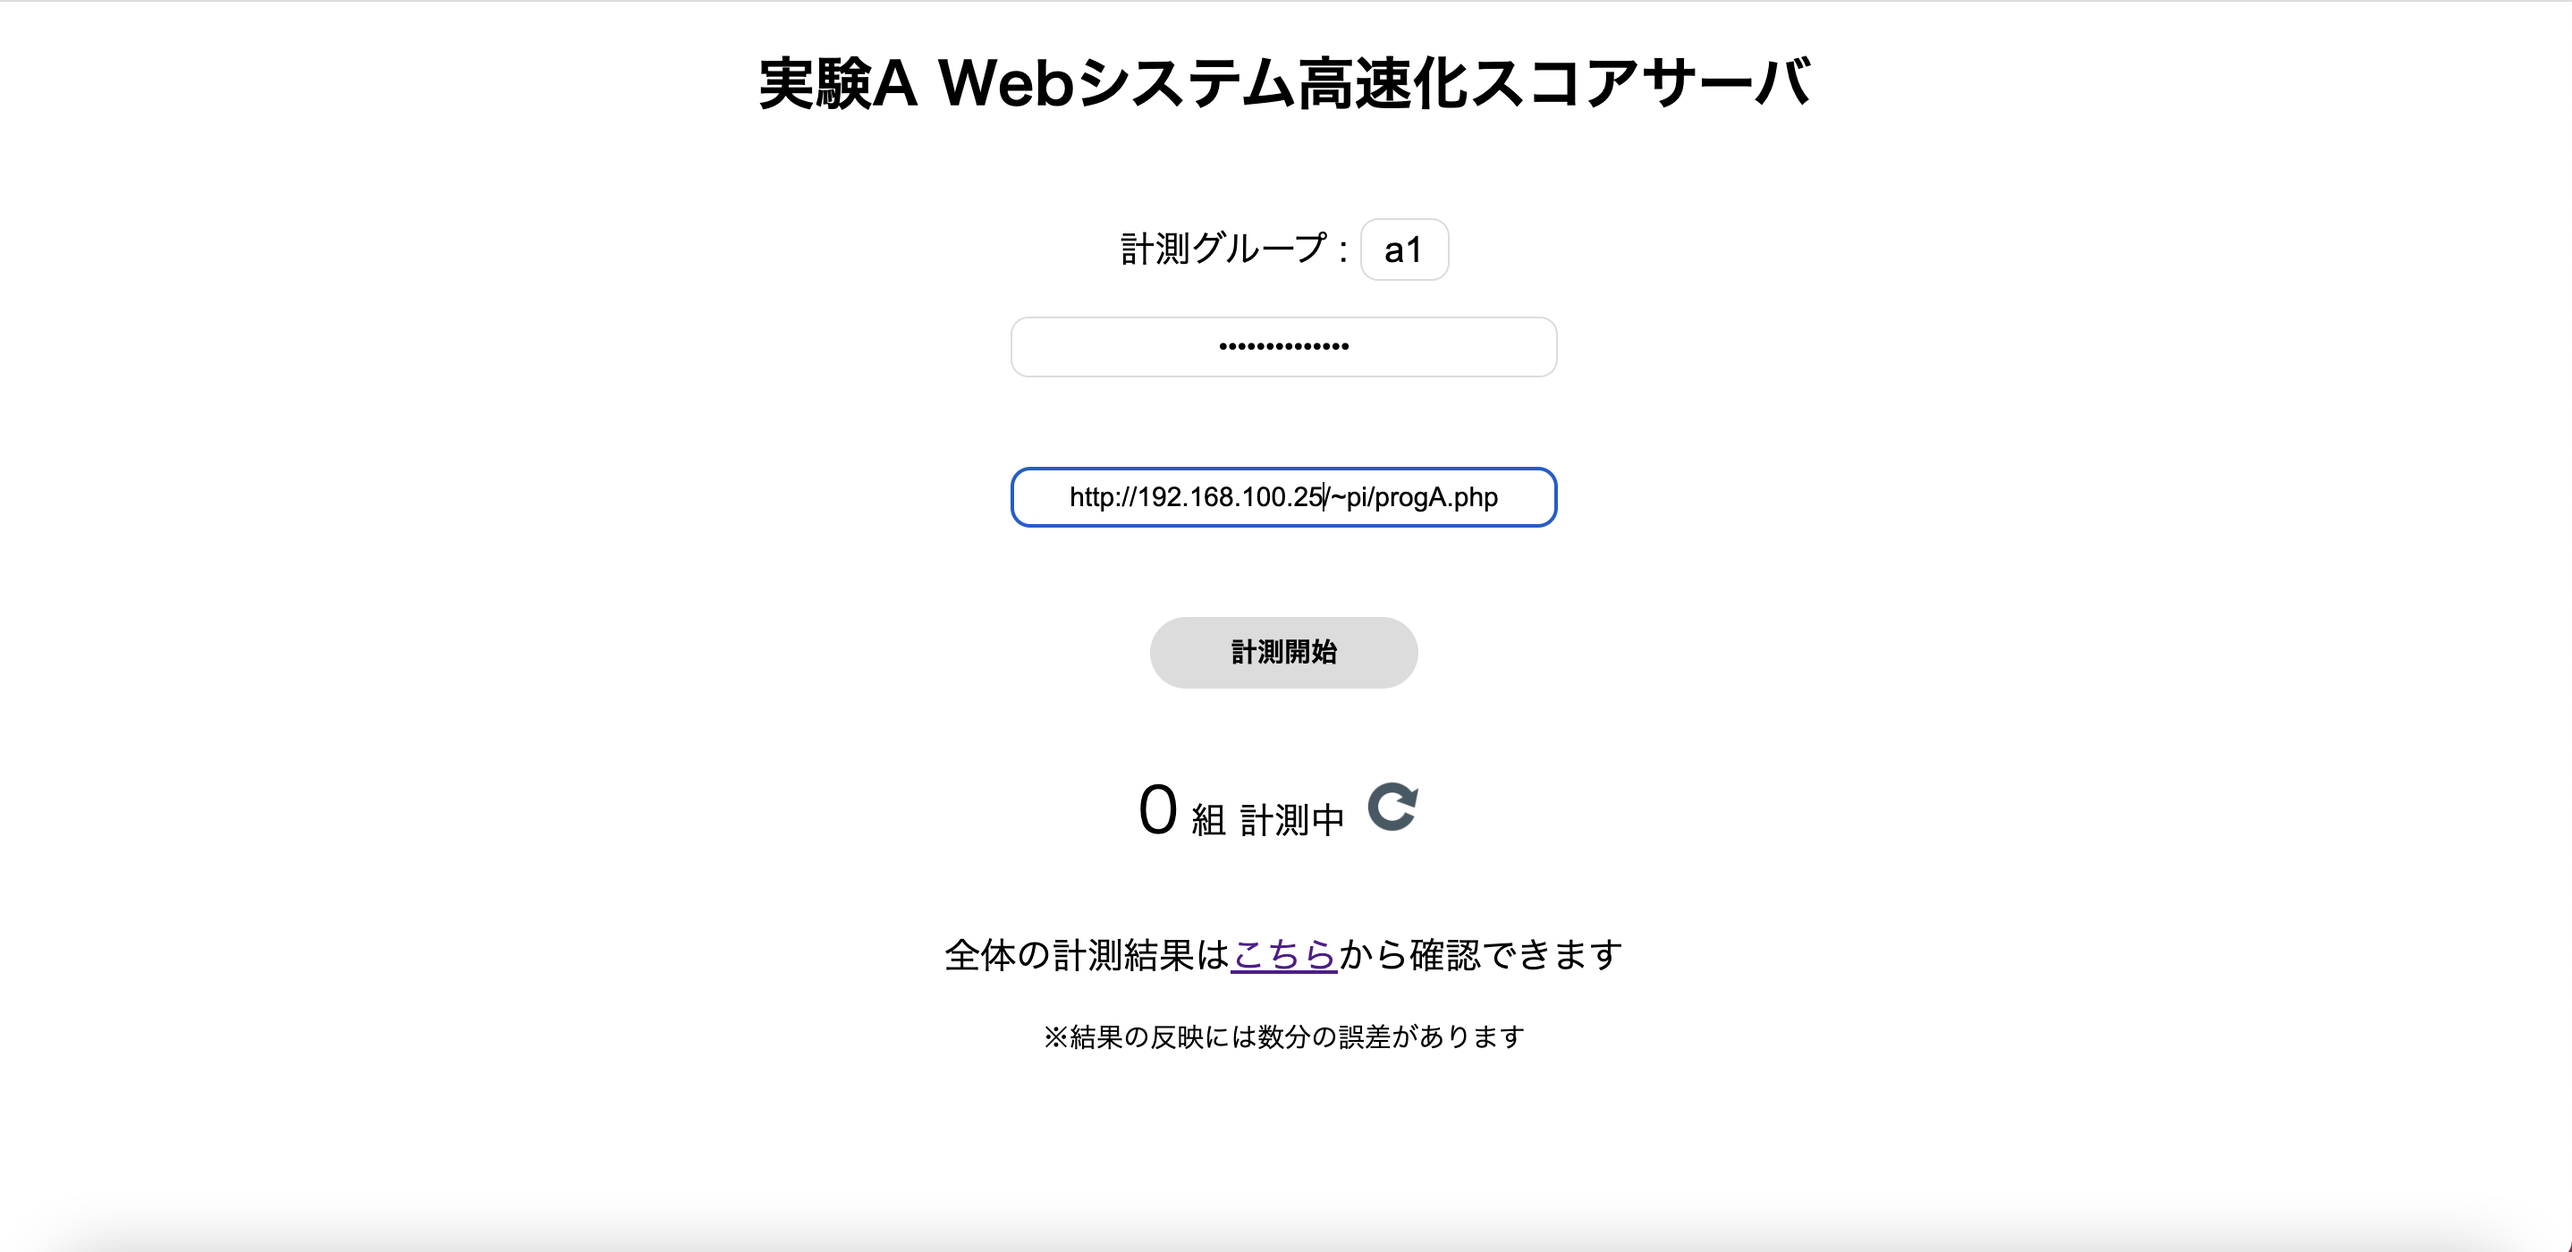
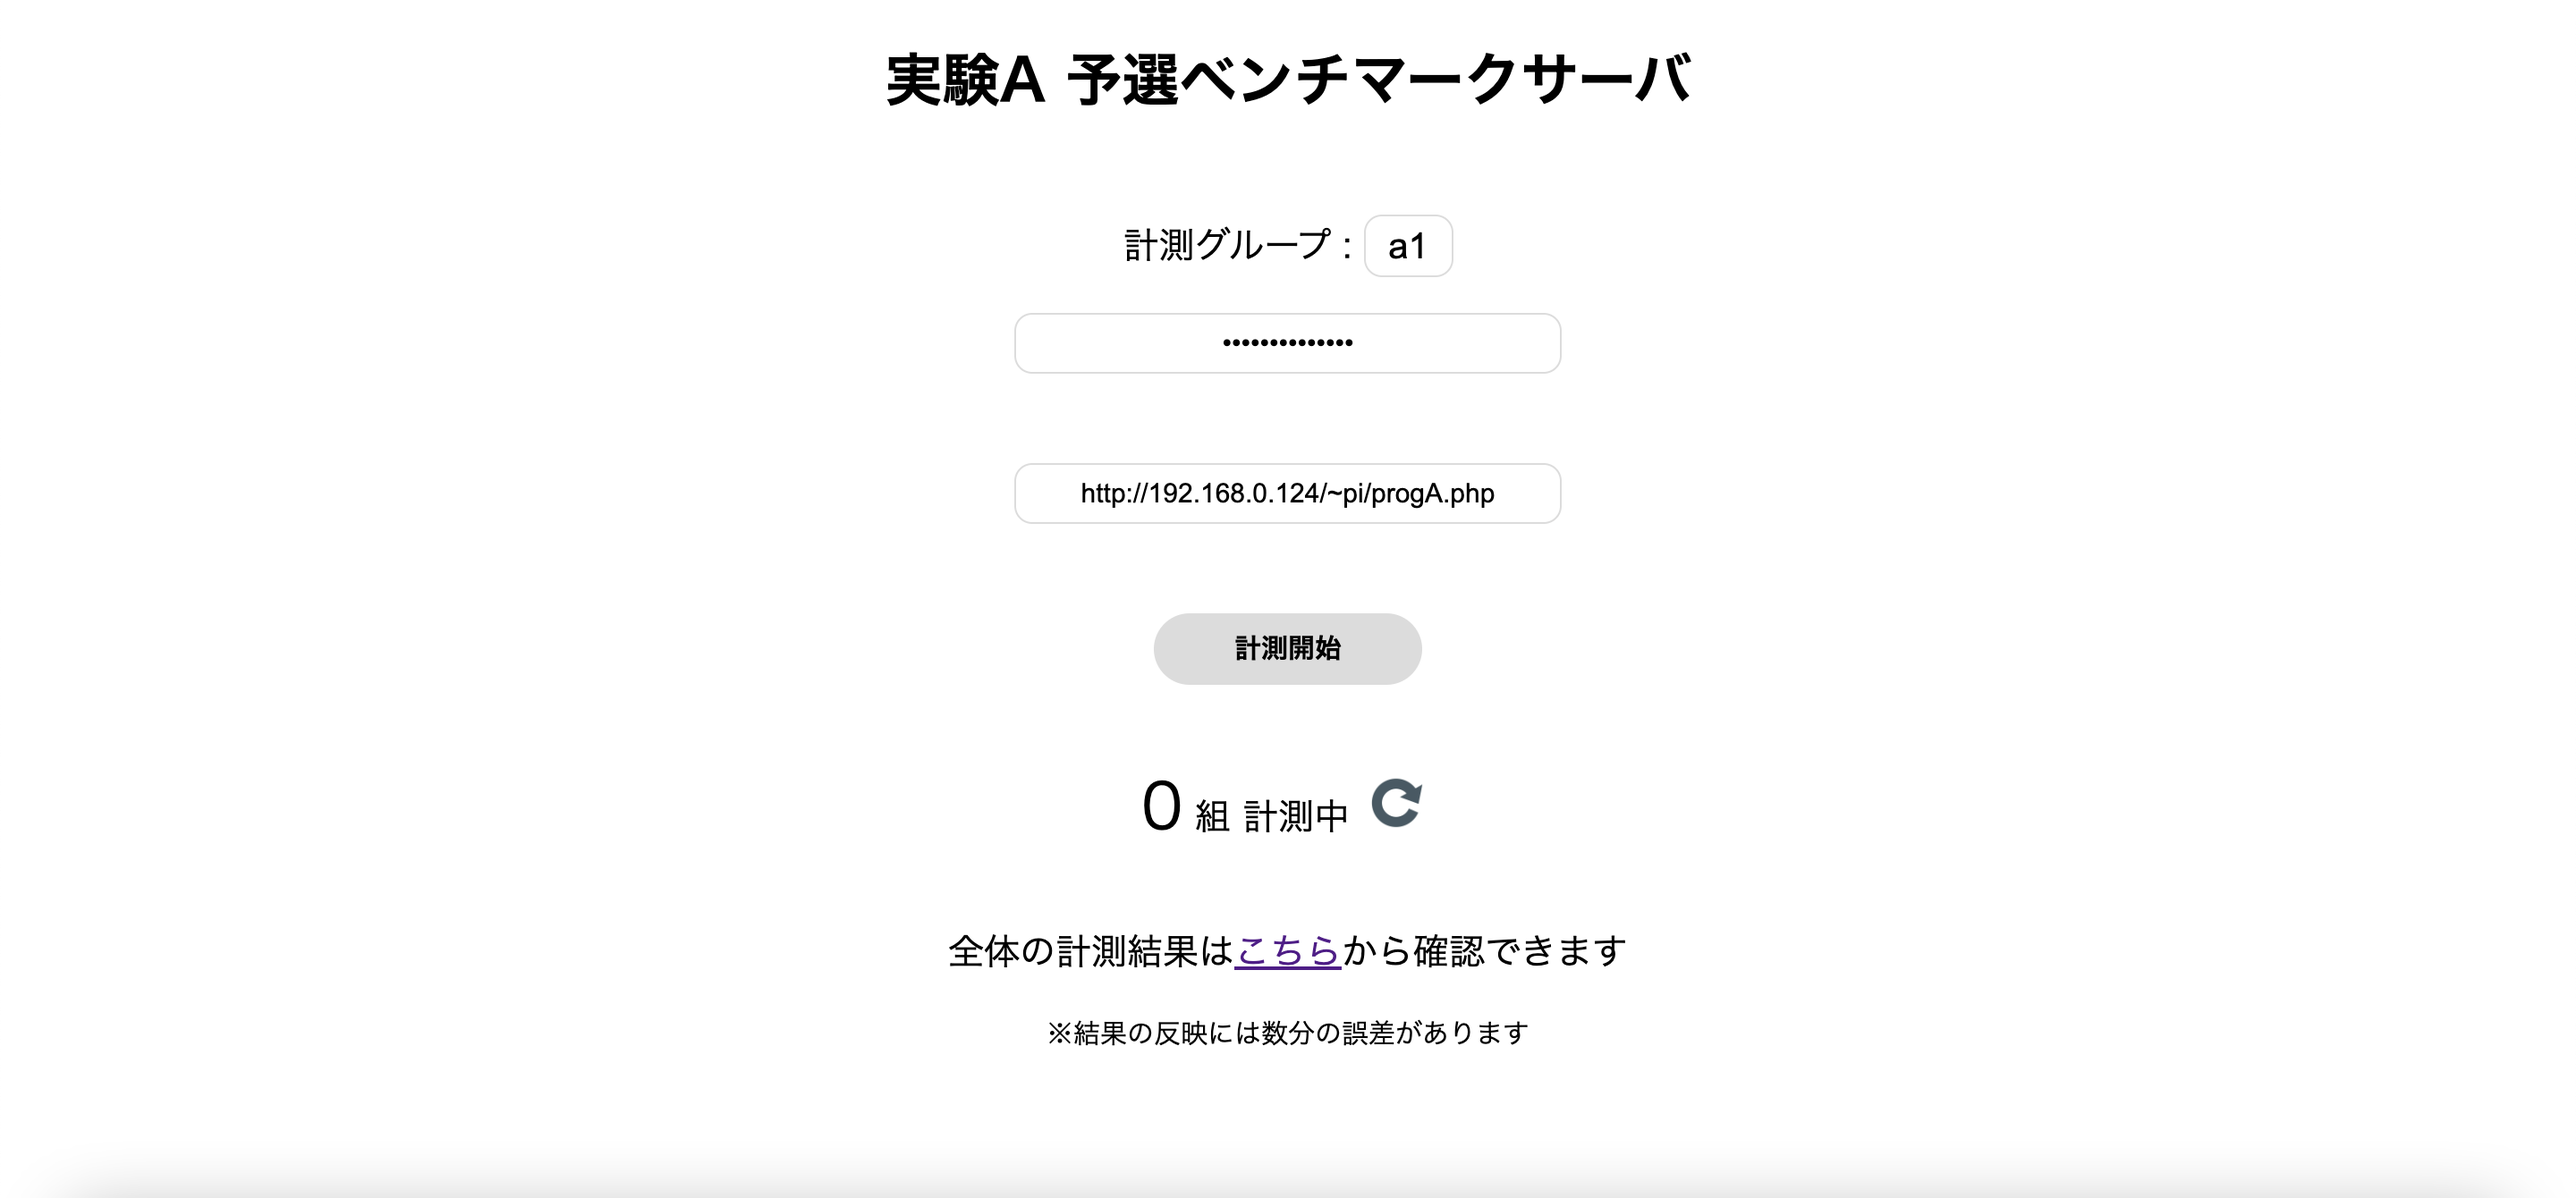
ベンチマークサーバの説明を追加”

diff --git a/books/content/part3/part3_2/final_task_details.md b/books/content/part3/part3_2/final_task_details.md
@@ -383,11 +383,10 @@ use CSexp1DB;
 
 チケット予約サイトのようなWebシステムでは，不特定多数の膨大な同時アクセスに耐えられなければなりません．スケールアップやスケールアウトといった様々なアプローチがありますが，ここでは**実装A**をさらに改良して，**実装C**の速度を上回る検索パフォーマンスを目指しましょう．CSVファイルを前処理して，独自のデータ構造で保存する，Raspberry Piを複数利用しクラスタ化して検索する等，方法は問いません．皆さんの独創的なアプローチを期待しています．
 
--   検索するタグは**実装C**と同様fiat
-    -   ただし，fiat以外の検索ワードを入れた際にも正しく動作するように設計すること
--   abのコマンドライン引数は以下の数値を基本とすること（グループ間の性能比較をする際の設定）
-    -   \-n 20
-    -   \-c 10
+検索パフォーマンスはベンチマークサーバを使用して計測します．詳しくは以下を参照してください．
+- [ベンチマークサーバの説明](./benchmarkserver_description "ベンチマークサーバの説明")
+- [競技ルール](./regulation "競技ルール")
+
 
 **＜補足＞**最終課題の発表資料では，**実装A**の結果として発表して頂いて構いません．
 
